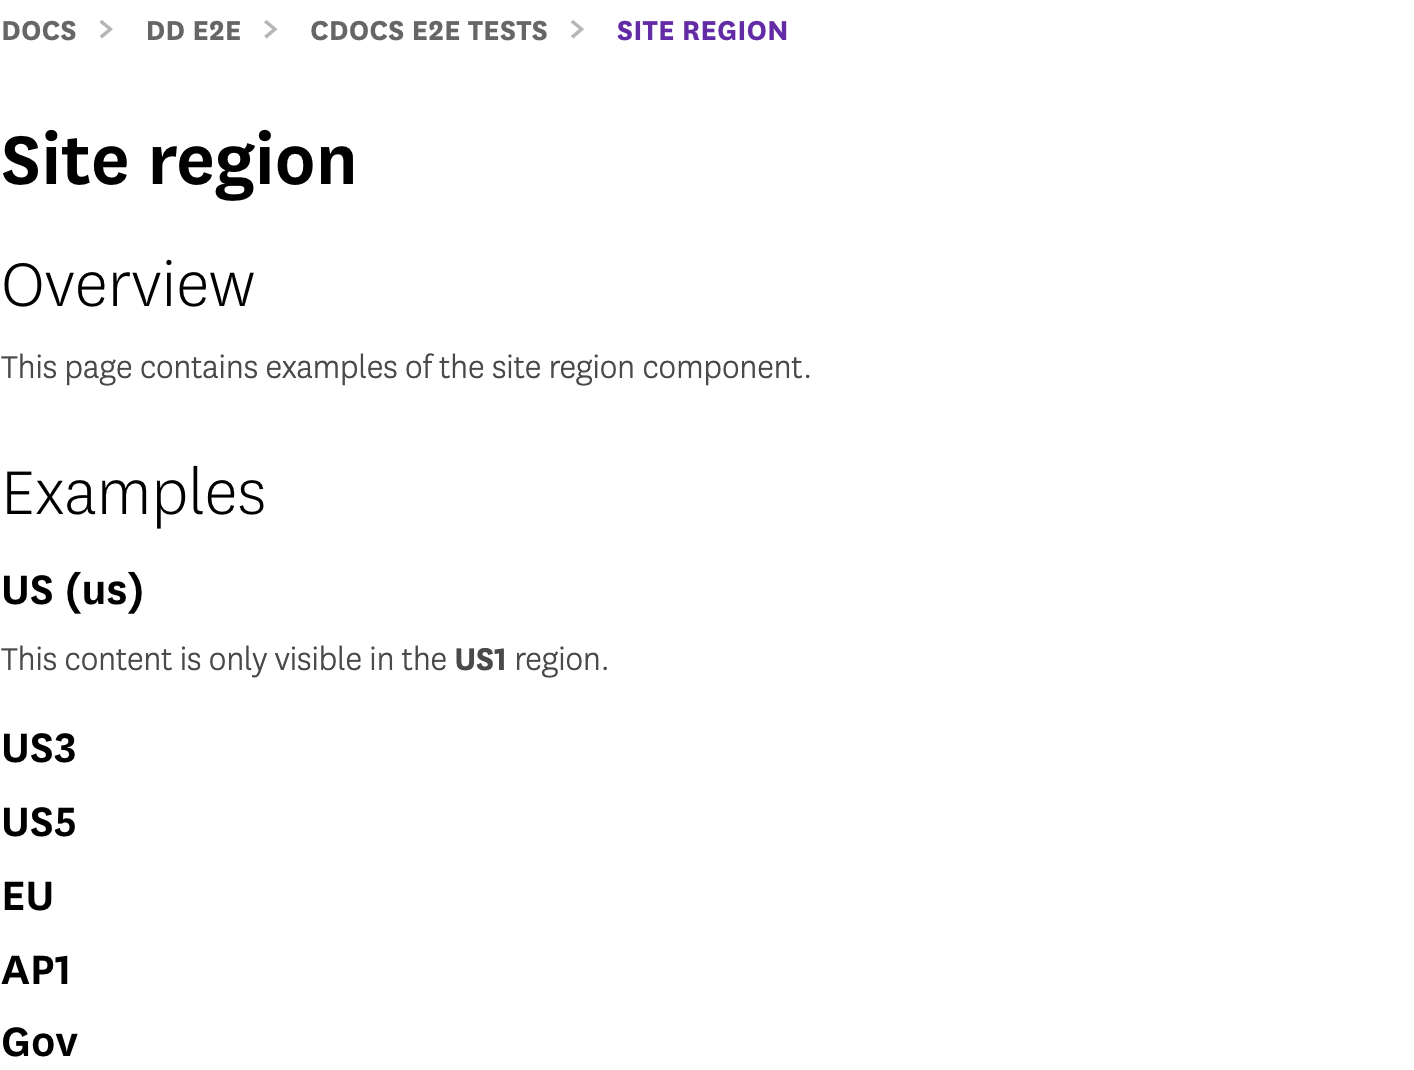
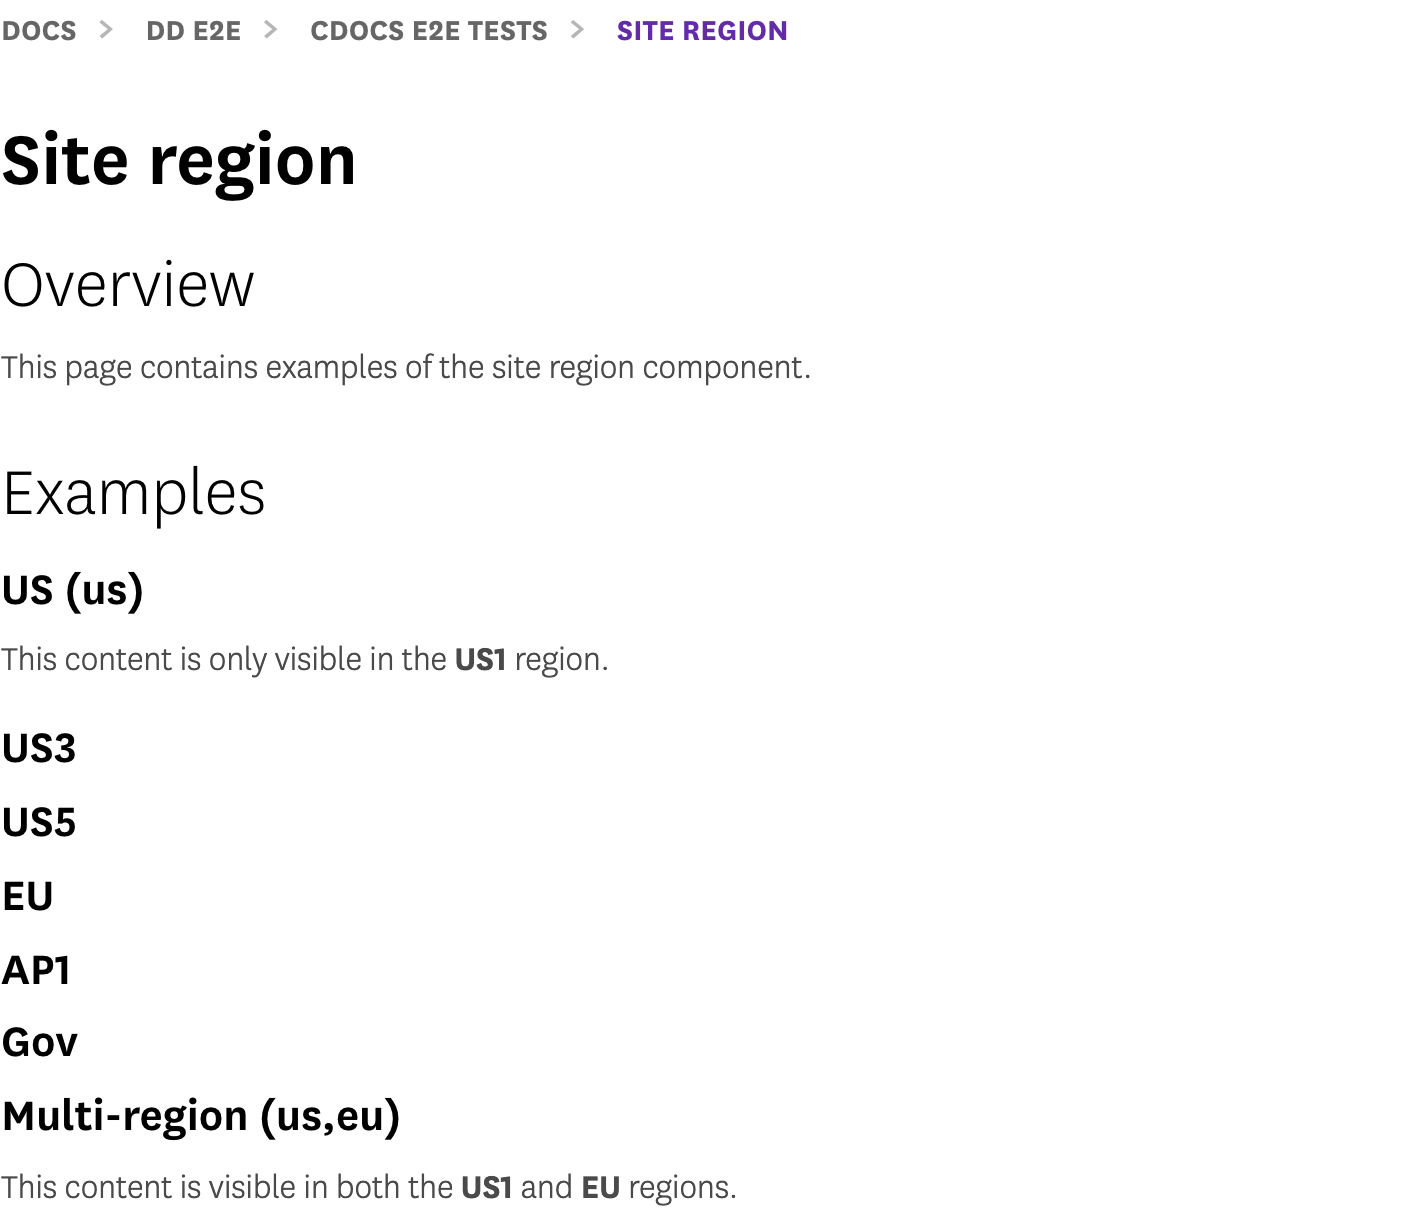
(cdocs) Bumo to 4.2.0 (#36651)
* (cdocs) Bump cdocs

* snapshots

Pull request: (cdocs) Bumo to 4.2.0
Bumps Cdocs to 4.2.0, which fixes dynamic regions.
Updates tests for the `site-region` tag.

diff --git a/e2e/components/site-region/cdocs-site-region.spec.ts b/e2e/components/site-region/cdocs-site-region.spec.ts
@@ -29,4 +29,17 @@ test.describe('Cdocs site region component', () => {
         await page.click('.js-region-select .btn');
         await page.click('.js-region-select .dropdown-item[data-value="us"]');
     });
+
+    test('multi-region block is visible for each matching site', async ({ page }) => {
+        const multiRegion = page.locator('[data-region="us,eu"]');
+        await expect(multiRegion).not.toHaveClass(/d-none/);
+
+        await page.click('.js-region-select .btn');
+        await page.click('.js-region-select .dropdown-item[data-value="eu"]');
+        await expect(multiRegion).not.toHaveClass(/d-none/);
+
+        await page.click('.js-region-select .btn');
+        await page.click('.js-region-select .dropdown-item[data-value="us3"]');
+        await expect(multiRegion).toHaveClass(/d-none/);
+    });
 });

diff --git a/content/en/dd_e2e/cdocs/components/site_region.mdoc.md b/content/en/dd_e2e/cdocs/components/site_region.mdoc.md
@@ -46,3 +46,9 @@ This content is only visible in the **AP1** region.
 {% site-region region="gov" %}
 This content is only visible in the **Gov** region.
 {% /site-region %}
+
+### Multi-region (us,eu)
+
+{% site-region region="us,eu" %}
+This content is visible in both the **US1** and **EU** regions.
+{% /site-region %}